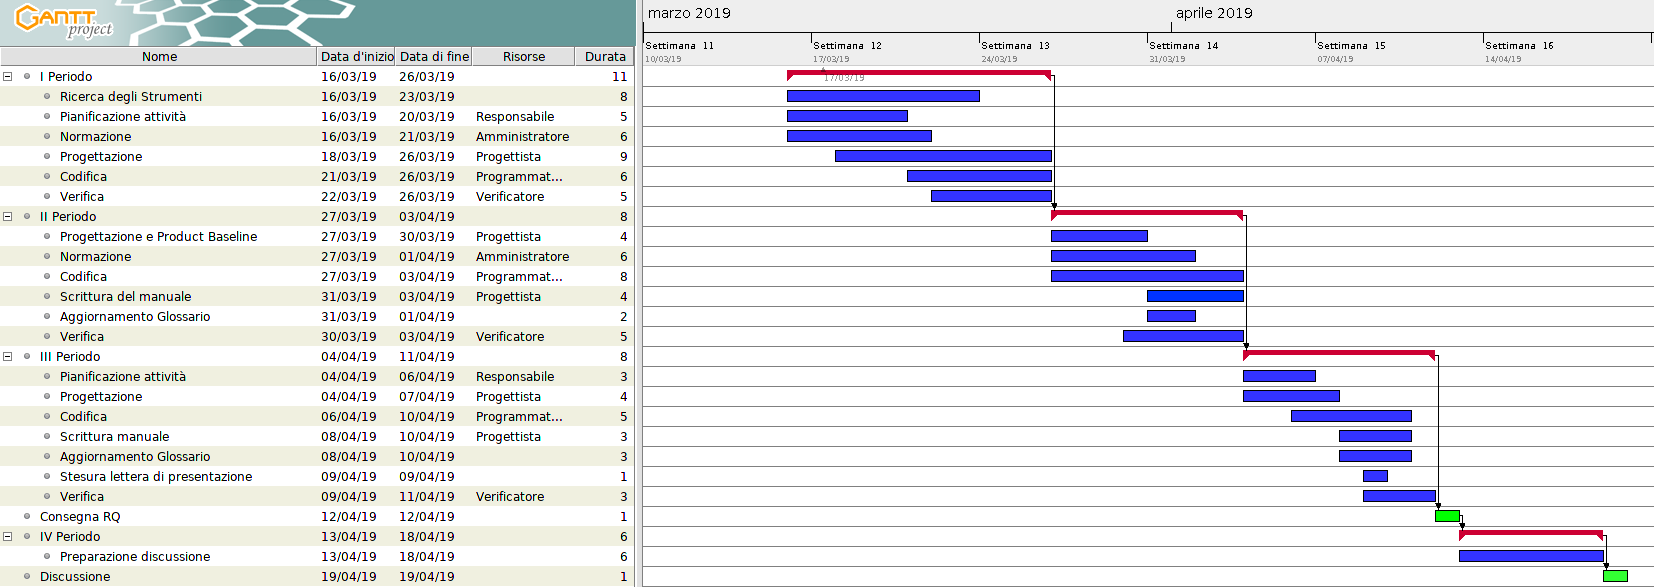
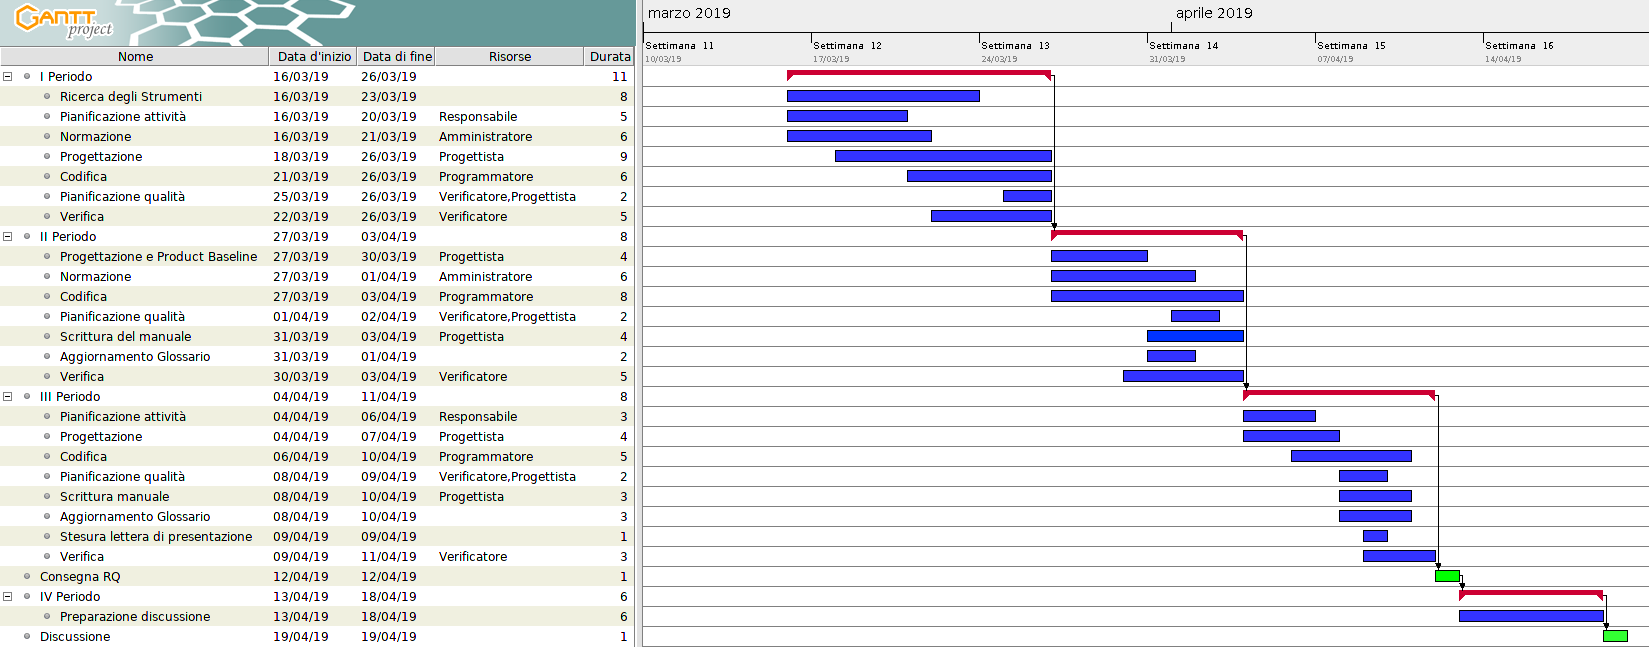
Aggiornata pianificazione con attività di cruscotto. Aggiornato il glossario

diff --git a/doc/Esterni/Piano di Progetto/sections/pianificazione.tex b/doc/Esterni/Piano di Progetto/sections/pianificazione.tex
@@ -86,7 +86,9 @@
 
         \subsection{Progettazione della base tecnologica}\label{PianificazioneBaseTecnologica}
 		Questo macro-periodo ha inizio il 2019-01-22, procede con due periodi fino al 2019-03-08 con la consegna
-		dei documenti e, nel terzo ed ultimo periodo, ci prepareremo per la revisione di progetto del 2019-03-15.
+		dei documenti e, nel terzo ed ultimo periodo, ci prepareremo per la revisione di progetto del 2019-03-15.\\
+		In questa attività sono stati aggiunti tre rilevamenti riguardanti la qualità, a distanza di una settimana uno
+		dall'altro. Questi ci permetteranno di avere una rappresentazione chiara del modo in cui si starà lavorando.
 
         I ruoli attivi sono:
         \begin{itemize}
@@ -97,7 +99,7 @@
             \item Programmatore
             \item Verificatore
         \end{itemize}
-        Questo macro-periodo è stato suddiviso in tre periodi:
+        Questo macro-periodo è stato suddiviso in quattro periodi:
 		\begin{itemize}
 			\item \textbf{I periodo}: dal 2019-01-22 al 2019-02-03
 			\begin{itemize}
@@ -105,22 +107,30 @@
     	        \item \textbf{Analisi dei requisiti}
     	        \item \textbf{Pianificazione delle attività}: aggiornamenti della pianificazione.
     	        \item \textbf{Pianificazione qualità}
-    	        \item \textbf{Progettazione}: implementazione schemi \gloss{UML}.
+    	        \item \textbf{Ricerca degli strumenti}: \gloss{GitLab}, \gloss{Redmine}, \gloss{framework} e librerie per lo sviluppo del prodotto.
         	\end{itemize}
-			\item \textbf{II periodo}: dal 2019-02-04 al 2019-03-07
+			\item \textbf{II periodo}: dal 2019-02-04 al 2019-02-25
 			\begin{itemize}
-				\item \textbf{Ricerca degli strumenti}: \gloss{Apache Kafka}, \gloss{Docker}, \gloss{API Rest}.
-    	        \item \textbf{Normazione}: aggiunta nuovi strumenti utilizzati.
+				\item \textbf{Normazione}: aggiunta nuovi strumenti utilizzati.
+				\item \textbf{Progettazione}: implementazione schemi \gloss{UML}.
+				\item \textbf{Ricerca degli strumenti}: \gloss{Apache Kafka}, \gloss{Docker}, \gloss{CherryPy},
+				\gloss{MongoDB}, \gloss{SonarQube}.
     	        \item \textbf{Pianificazione delle attività}: aggiornamenti della pianificazione.
-    	        \item \textbf{Progettazione}: implementazione schemi UML.
-    	        \item \textbf{Technology Baseline}: tecnologie, \gloss{framework} e librerie per lo sviluppo del prodotto.
-    	        \item \textbf{Proof of Concept}: implementazione che rappresenti la \gloss{baseline}.
+    	        \item \textbf{Analisi dei rischi}
     	        \item \textbf{Codifica}: realizzazione del \gloss{Proof of Concept}.
-    	        \item \textbf{Stesura lettera di presentazione}
+    	        \item \textbf{Pianificazione qualità}: prima rilevazione indici per la verifica.
         	\end{itemize}
-        	\item \textbf{III periodo}: dal 2019-03-09 al 2019-03-14
+        	\item \textbf{III periodo}: dal 2019-02-27 al 2019-03-07
 			\begin{itemize}
-				\item \textbf{Preparazione per la discussione}: realizzazione della presentazione e studio personale.
+				\item \textbf{Pianificazione delle attività}: aggiornamenti della pianificazione.
+				\item \textbf{Analisi dei requisiti}
+				\item \textbf{Pianificazione qualità}: seconda rilevazione indici per la verifica.
+				\item \textbf{Stesura lettera di presentazione}
+				\item \textbf{Pianificazione qualità}: terza rilevazione indici per la verifica.
+        	\end{itemize}
+        	\item \textbf{IV periodo}: dal 2019-03-09 al 2019-03-14
+        	\begin{itemize}
+        		\item \textbf{Preparazione per la discussione}: realizzazione della presentazione e studio personale.
         	\end{itemize}
 		\end{itemize}
 
@@ -128,7 +138,7 @@
 			\subsubsection{Diagramma di Gantt}
 			\begin{figure}[H]
 					\centering
-					\includegraphics[scale=0.49]{img/Progettazione_della_base_tecnologica.png}\\
+					\includegraphics[scale=0.375]{img/Progettazione_della_base_tecnologica.png}\\
 					\caption{Diagramma di Gantt della macro progettazione della base tecnologica}
 			\end{figure}
 		\end{landscape}
@@ -136,8 +146,10 @@
 
         \subsection{Progettazione di dettaglio e codifica}\label{PianificazioneDettaglio}
         Questo macro-periodo ha inizio il 2019-03-16, procede con tre periodi fino al 2019-03-26 con la consegna dei documenti e, nel
-        quarto e ultimo periodo, ci prepareremo per la revisione di qualifica del 2019-04-19.
-
+        quarto e ultimo periodo, ci prepareremo per la revisione di qualifica del 2019-04-19. \\
+		In questa attività sono stati aggiunti tre rilevamenti riguardanti la qualità, a distanza di una settimana uno
+		dall'altro. Questi ci permetteranno di avere una rappresentazione chiara del modo in cui si starà lavorando.
+		
         I ruoli attivi sono:
         \begin{itemize}
             \item Responsabile
@@ -155,13 +167,15 @@
     	        \item \textbf{Normazione}
     	        \item \textbf{Progettazione}: miglioramento Technology Baseline e Proof of Concept.
     	        \item \textbf{Codifica}: prima implementazione.
+    	        \item \textbf{Pianificazione qualità}: prima rilevazione indici per la verifica.
         	\end{itemize}
 			\item \textbf{II periodo}: dal 2019-03-27 al 2019-04-03
 			\begin{itemize}
-				\item \textbf{Progettazione e Product Baseline}: implementazione della Product Baseline tramite diagrammi delle classi e di sequenza,
-				coerentemente con quanto dichiarato nella Technology Baseline.
+				\item \textbf{Progettazione e Product Baseline}: implementazione della Product Baseline tramite diagrammi delle
+				classi e di sequenza, coerentemente con quanto dichiarato nella Technology Baseline.
     	        \item \textbf{Normazione}
     	        \item \textbf{Codifica}: implementazione seguendo specifiche progettuali ed implementazione dei test.
+    	        \item \textbf{Pianificazione qualità}: seconda rilevazione indici per la verifica.
     	        \item \textbf{Scrittura manuale}: prima stesura.
         	\end{itemize}
         	\item \textbf{III periodo}: dal 2019-04-04 al 2019-04-11
@@ -169,6 +183,7 @@
 				\item \textbf{Pianificazione attività}: aggiornamenti della pianificazione.
     	        \item \textbf{Progettazione}: scelta dei \gloss{design pattern}.
     	        \item \textbf{Codifica}: primo rilascio.
+    	        \item \textbf{Pianificazione qualità}: terza rilevazione indici per la verifica.
     	        \item \textbf{Scrittura manuale}: aggiornamenti al manuale.
     	        \item \textbf{Stesura lettera di presentazione}
         	\end{itemize}
@@ -182,7 +197,7 @@
 			\subsubsection{Diagramma di Gantt}
 			\begin{figure}[H]
 					\centering
-					\includegraphics[scale=0.44]{img/Progettazione_di_dettaglio_e_codifica.png}\\
+					\includegraphics[scale=0.42]{img/Progettazione_di_dettaglio_e_codifica.png}\\
 					\caption{Diagramma di Gantt della macro progettazione di dettaglio e codifica}
 			\end{figure}
 		\end{landscape}
@@ -209,7 +224,7 @@
     	        \item \textbf{Analisi dei requisiti}
     	        \item \textbf{Pianificazione attività}: aggiornamenti pianificazione.
     	        \item \textbf{Pianificazione qualità}
-    	        \item \textbf{Progettazione Technology Baseline e Product Baseline}: completamento delle specifiche.
+    	        \item \textbf{Raffinamento specifiche}: completamento delle specifiche.
         	\end{itemize}
 			\item \textbf{II periodo}: dal 2019-05-01 al 2019-05-09
 			\begin{itemize}

diff --git a/doc/Esterni/Glossario/sections/M.tex b/doc/Esterni/Glossario/sections/M.tex
@@ -40,7 +40,7 @@
 	}\label{Metrica}
 
 	\parola{Microservizio}{%
-	 Un microservizio è un servizio ``piccolo'' e autonomo che interagisce con altri microservizi e che ha come finalità quella di fare una cosa e di farla nel modo corretto.
+		 Un microservizio è un servizio ``piccolo'' e autonomo che interagisce con altri microservizi e che ha come finalità quella di fare una cosa e di farla nel modo corretto.
 	}\label{Microservizio}
 
     \parola{Milestone}{%
@@ -60,3 +60,7 @@
     \parola{Modello di sviluppo}{%
         Principio teorico indicante il metodo da seguire in fase di progettazione e codifica, serie di passi o percorso da svolgere per ottenere risultati di alta qualità e in tempi prefissati nello sviluppo di un prodotto o sistema software.
     }\label{Modello di sviluppo}
+
+	\parola{MongoDB}{%
+		È un \gloss{DBMS} non relazionale, orientato ai documenti. MongoDB si allontana dalla struttura tradizionale basata su tabelle dei database relazionali in favore di documenti in stile \gloss{JSON} con schema dinamico.
+	}\label{MongoDB}

diff --git a/doc/Esterni/Glossario/sections/D.tex b/doc/Esterni/Glossario/sections/D.tex
@@ -8,6 +8,10 @@
 		Detta anche Base di Dati, si tratta di una struttura dati per immagazzinare ordinatamente i dati in modo digitare.
 	}\label{Database}
 
+	\parola{DBMS}{%
+		Un Database Management System, abbreviato in DBMS o Sistema di gestione di basi di dati, è un sistema software progettato per consentire la creazione, la manipolazione e l'interrogazione efficiente di database, per questo detto anche "gestore o motore del database".
+	}\label{DBMS}
+
 	\parola{Debugging}{% TODO
 	Contenuto
 	}\label{Debugging}

diff --git a/doc/Esterni/Glossario/sections/C.tex b/doc/Esterni/Glossario/sections/C.tex
@@ -33,6 +33,11 @@
 		mentre la Z potrebbe cambiare a ogni minima modifica).
 	}\label{Change Significance}
 
+	\parola{CharryPy}{
+		È un framework per lo sviluppo web object-oriented in linguaggio \gloss{Python}. Fornisce le fondamenta sopra le quali
+		applicazioni web complesse possono essere scritte.
+	}\label{CharryPy}
+
 	\parola{CI/CD}{%
 		Sigla con cui ci si riferisce a \gloss{Continuous Integration} e \gloss{Continuous Delivery} contemporaneamente.
     }\label{CI/CD}
